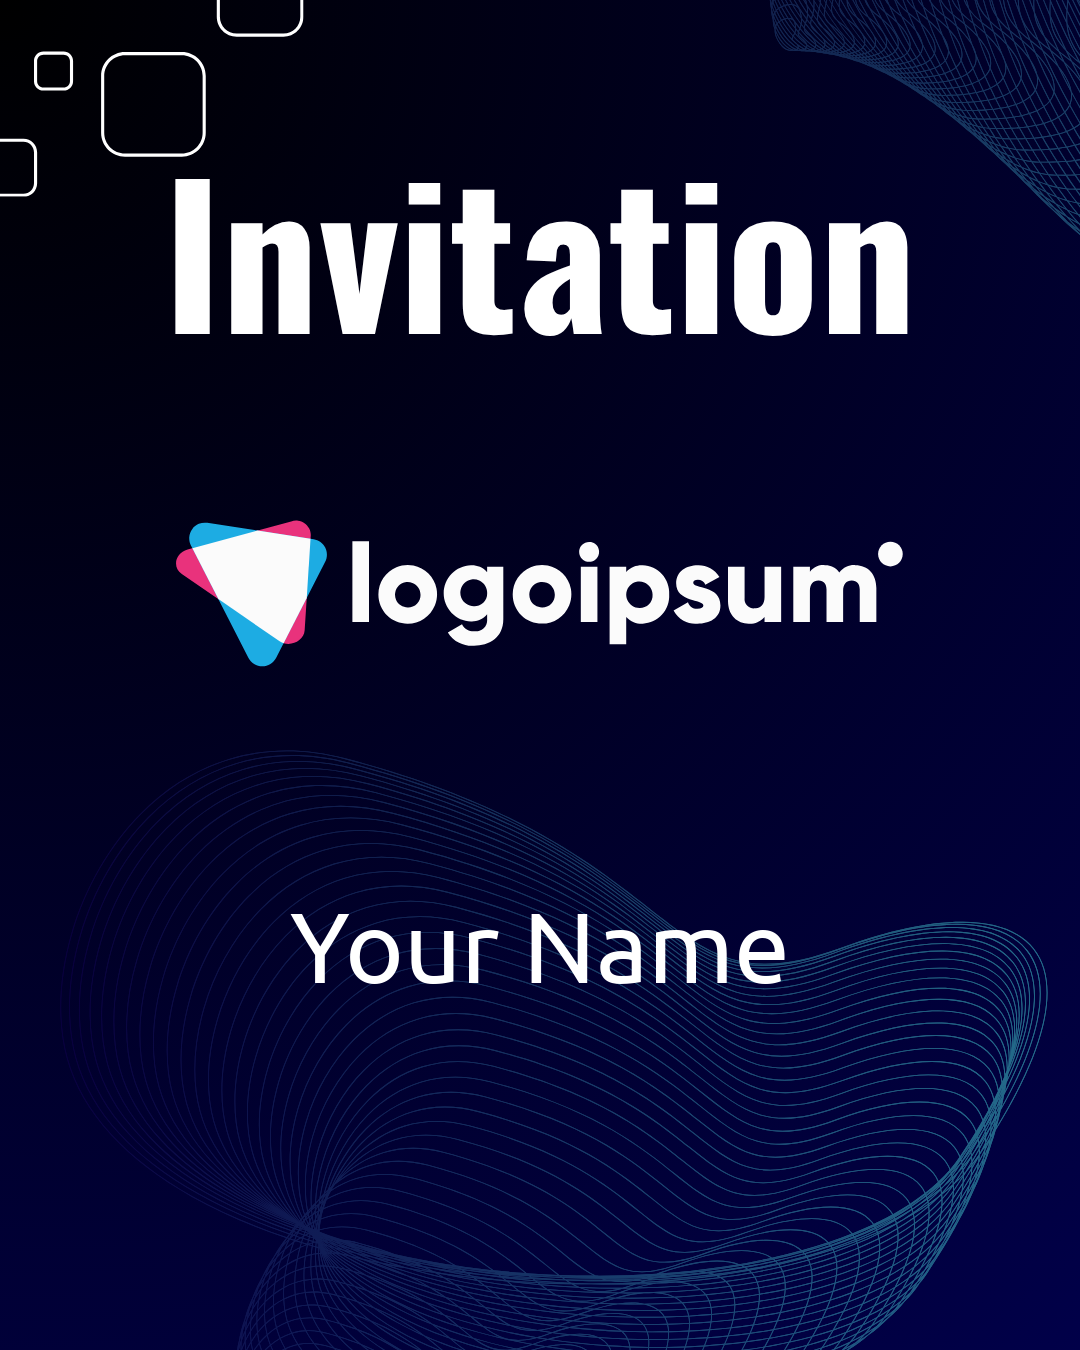
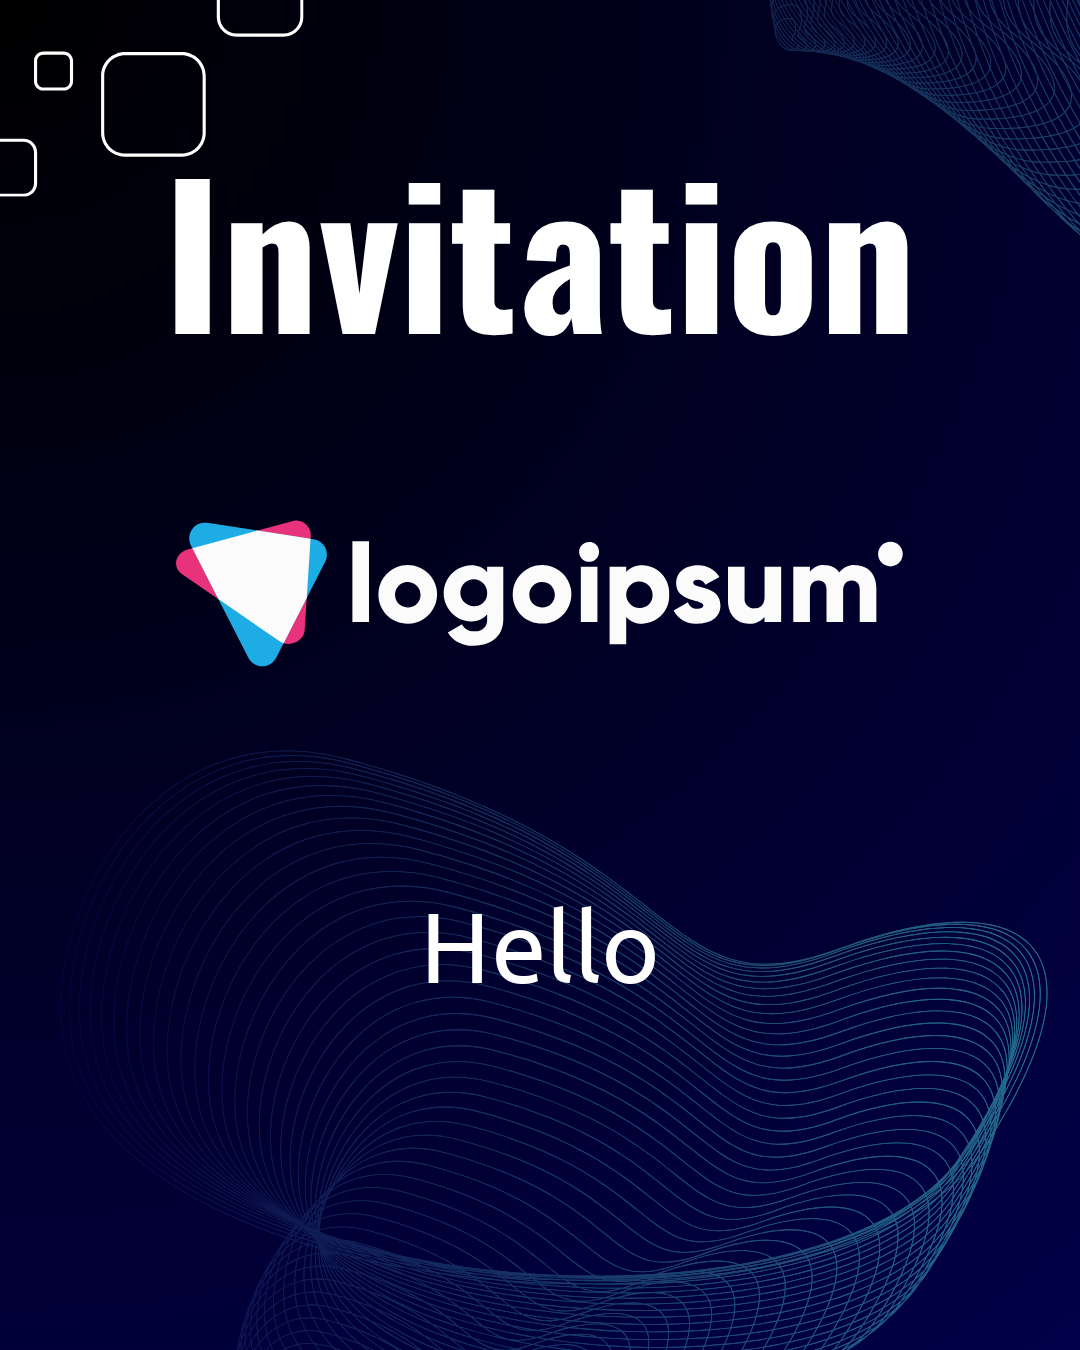
created the server logic to read from stdout and send it to the client
* worte a section of the README
* added history log for all created images

Changed region(s): [[0.275, 0.6533, 0.7333, 0.7467]]

diff --git a/Server/server.js b/Server/server.js
@@ -1,5 +1,5 @@
 import express from "express";
-import { spawn } from "node:child_process";
+import { exec } from "node:child_process";
 const app = express()
 const PORT = 8080
 
@@ -8,19 +8,16 @@ app.get("/:name", handleName);
 
 async function handleName(req, res) {
     const name = req.params.name;
-    const ls = spawn('ls')
-    // console.log(ls);
-
-    const image = spawn(`python3`, [process.cwd() + "/Scripts/main.py", name]);
-    image.on("close", (code) => {
-        console.log(`the proccess pytho3 main.py... closed with code ${code}`);
-        
+    const bufferSize = 1024 * 1024 * 10 // 1MB 
+    const cwd = process.cwd() 
+    const cmd = `'${cwd + "/Scripts/.pyenv/bin/python3"}' '${cwd + "/Scripts/main.py"}' ${name} --stdout`
+    exec(cmd, {"maxBuffer": bufferSize, encoding: null },  async (err, stdout, stderr) => {
+        res.type("png");
+        res.status(200);
+        res.send(stdout);
     })
-    res.type("png");
-    res.status(200);
-    res.sendFile(process.cwd() + "/output.png")
 
-    console.log(ls);
+
 
 }
 

diff --git a/Server/server.ts b/Server/server.ts
@@ -16,6 +16,7 @@ async function handleName(req:Request, res:Response) {
     res.type("png");
     res.status(200);
     res.sendFile("./output.png")
+    
 
     console.log(ls);
 

diff --git a/Server/Scripts/main.py b/Server/Scripts/main.py
@@ -1,54 +1,67 @@
-from sys import exit, argv
-from os.path import join, abspath
+from sys import exit, argv, stdout
+from pathlib import Path
 from PIL import Image, ImageDraw, ImageFont
-
+import os.path as op
 
 DEFAULT_STYLE = 1
-
+BASE_PATH = Path("/home/albrrak/Mega sync/Code/Actual Project/invite_card_maker/Server/Scripts")
+LOG_FILE = "history.log"
 
 def main(args: list[str]):
-    BASE_PATH = get_base_path()
-    print(f"SHOWING: {join(BASE_PATH, "history.txt")}")
-    with open(join(BASE_PATH, "history.log"), 'w') as f:
+
+    with open(Path.joinpath(BASE_PATH, LOG_FILE), "a") as f:
         f.write(f"Got called with args {args[0]}, {args[1]}\n")
     Name = args[0].title()
 
     if (args[1] == 1):
-        background = join(BASE_PATH, "assets", "invite card 1.png")
+        background = Path.joinpath(BASE_PATH, "assets", "invite card 1.png")
     if (args[1] == 2):
-        background = join(BASE_PATH, "assets", "invite card 2.png")
+        background = Path.joinpath(BASE_PATH, "assets", "invite card 2.png")
 
     # if not english assume Arabic.
     if (isEnglish(Name)):
-        font = ImageFont.truetype(join(BASE_PATH, 'assets','Ubuntu','Ubuntu-Regular.ttf'), size=scale_font_size(Name))
+        font = ImageFont.truetype(Path.joinpath(BASE_PATH, "assets", "Ubuntu", "Ubuntu-Regular.ttf"), size=scale_font_size(Name))
         language = 'en'
     else:
-        font = ImageFont.truetype(join(BASE_PATH, 'assets','Rubik', 'static', 'Rubik-Regular.ttf'), size=scale_font_size(Name))
+        font = ImageFont.truetype(Path.joinpath(BASE_PATH, "assets", "Rubik", "static","Rubik-Regular.ttf"), size=scale_font_size(Name))
         language = 'ar'
 
     with Image.open(background) as im:
         d = ImageDraw.Draw(im)
         x, y = im.size
         d.text((x/2, (y * 0.7)), Name, anchor="mm", font=font, language=language)
-        im.save(join(BASE_PATH, "..", "output.png"), format="png")
+        if (args[2]):
+            im.save(stdout.buffer, format="png")
+        else:
+            im.save(Path.joinpath(BASE_PATH, "..", "output.png"), format="png")
 
 
 def validate_args(args: list[str]):
     """
     checks if at least 1 argument was passed. 
     any more arguments are ignored
+    returns: [name, style, is_stdout]
     """
-    # if missing arguments print help message
+    length = 3
+    new_args = list([None for x in range(length)]) # new list with None * length
+    #  if missing arguments print help message
     if (len(args) <= 1):
-        with open("./help.txt", "r") as help_menu:
+        with open(Path.joinpath(BASE_PATH, "help.txt"), "r") as help_menu:
             for line in help_menu.readlines():
                 print(line, end="")
         exit(0)
-    if (len(args) <= 2):
-        args.append(DEFAULT_STYLE)
-    if (len(args) >= 3):
-        args[2] = int(args[2])
-    return args[1:]
+    else:
+        new_args[0] = args[1]
+    if ("--style" in args):
+        i = args.index("--style") + 1
+        new_args[1] = int(args[i])
+    else:
+        new_args[1] = DEFAULT_STYLE
+    if ("--stdout" in args):
+        new_args[2] = True
+    else:
+        new_args[2] = False
+    return new_args
 
 def scale_font_size(Name: str = "Your Name"):
     """
@@ -75,10 +88,6 @@ def isEnglish(Name):
         return True
     else:
         return False
-    
-def get_base_path():
-    path = abspath(__file__)
-    return path[1:path.rfind("/")]
 
 if __name__ == "__main__":
     Name = validate_args(argv)

diff --git a/README.md b/README.md
@@ -1,0 +1,29 @@
+
+
+
+
+
+
+
+# misc
+in this project the way the image is sent is by making the python script output the image binary to stdout and then make the javascript read the stdout and just pass the binary straight to the client.
+the following is what would happen if did not do that and how I learned how to do that:
+#### what would happen if the file was saved to the file system instead of using stdout?
+will let's see the time line:
+* the server calls the python script
+* the python script generates the image and saves it to the file system under the name output.png
+* the server then reads and sends the file output.png
+* so far so good.. but let's say the server gets 10 requests at approximately the same time
+**this is where problems start to happen**
+* it would be the perfect storm for a [race condition.](https://en.wikipedia.org/wiki/Race_condition)
+* but let's assume that somehow launching 10 process that all write to the same file doesn't create a race condition. this is still bad because some clinet might get the image output of a different client!
+* all of the above is bad, but we can fix it by not having the script output the image to the same file with the same name. maybe we can have it save the image with the name that the client sent... yah that could work but 2 people could send a request with the same name around the same time so..
+* so we could instead create a random number for each request and tell the script to save the image under that random number that way when we read the image we read the one with that random number which we know for a fact to be acccoiated with the client
+* that's great but know I have to save the image of every single request! that is absurd and very inefficient. ok maybe I delete the image after the request is done.
+
+so by the end we do have solution and it does work but it intrduces extra latency (because now we have to do 2 I/O operatoins to the disk one to save the image and one to delete it) as well as other potential problems that would accure when there are a lot of requets at the same time.
+
+### how did I figure out how send to stdout
+while reading the pillow docs I came across [this example](https://pillow.readthedocs.io/en/stable/reference/ImageDraw.html#example-draw-a-gray-cross-over-an-image), and at the last line it showed that you can output the image to stdout.
+which did a 💡! in my head and I kinda just took it from there, if I can output to stdout how do I capture that stdout in node, how do I send that stdout binary to cline... a fter a bit of research all of that was answered in no time.
+if I made the script output to the file system that's not that bad and it's probably fine especially for a small project but I am here to learn and write great code, not to do a 'good enough' job.
